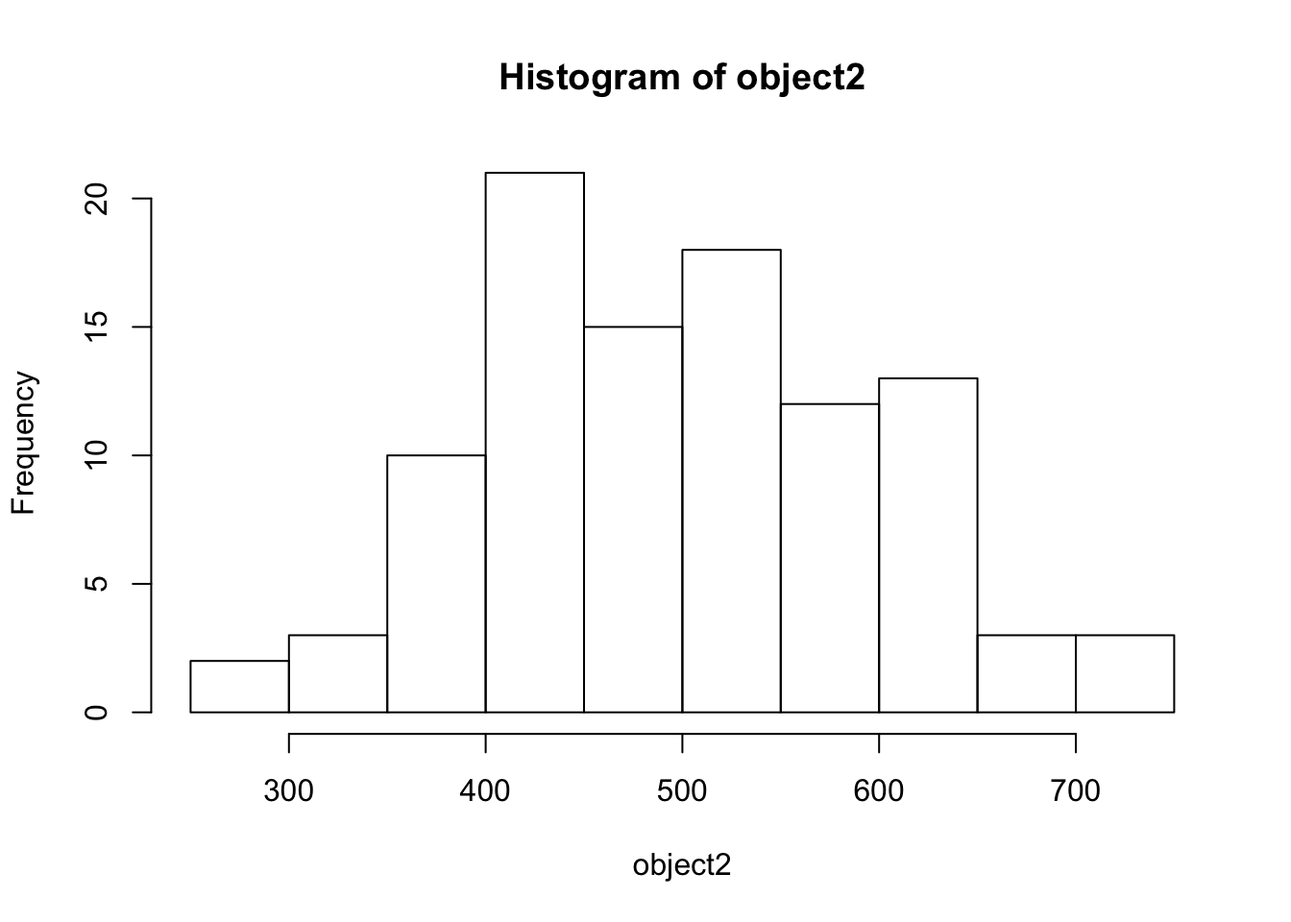
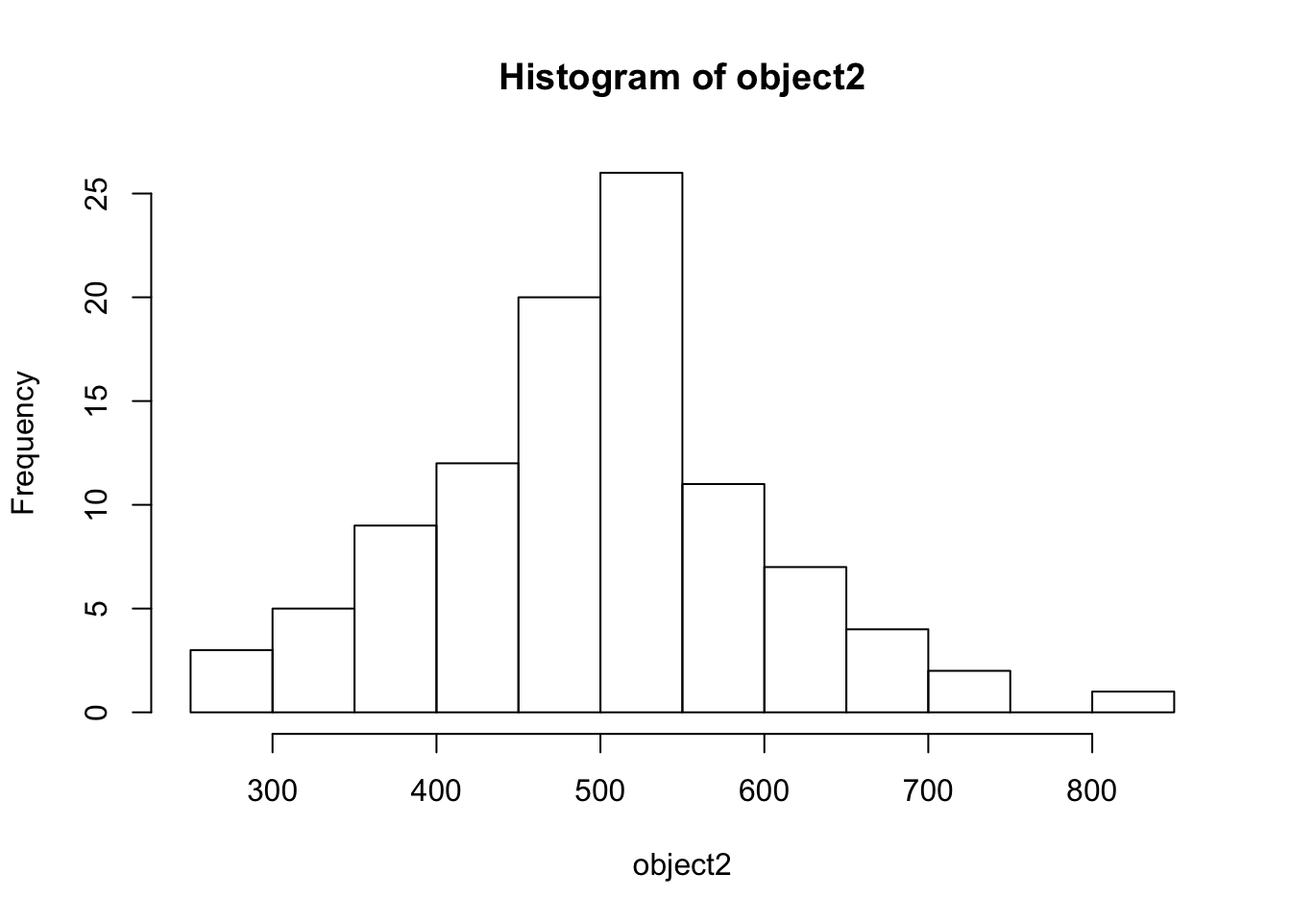
Clarify student set-up

diff --git a/_book/functions.html b/_book/functions.html
@@ -133,7 +133,9 @@ code span.wa { color: #60a0b0; font-weight: bold; font-style: italic; } /* Warni
 </ul></li>
 <li class="part"><span><b>I Core Lessons</b></span></li>
 <li class="chapter" data-level="1" data-path="Intro.html"><a href="Intro.html"><i class="fa fa-check"></i><b>1</b> Introduction to R and RStudio</a><ul>
-<li class="chapter" data-level="1.1" data-path="Intro.html"><a href="Intro.html#panes-in-rstudio"><i class="fa fa-check"></i><b>1.1</b> Panes in RStudio</a></li>
+<li class="chapter" data-level="1.1" data-path="Intro.html"><a href="Intro.html#panes-in-rstudio"><i class="fa fa-check"></i><b>1.1</b> Panes in RStudio</a><ul>
+<li class="chapter" data-level="1.1.1" data-path="Intro.html"><a href="Intro.html#rstudio-global-options"><i class="fa fa-check"></i><b>1.1.1</b> RStudio Global Options</a></li>
+</ul></li>
 </ul></li>
 <li class="chapter" data-level="2" data-path="set-up-an-r-project.html"><a href="set-up-an-r-project.html"><i class="fa fa-check"></i><b>2</b> Set up an R Project</a><ul>
 <li class="chapter" data-level="2.1" data-path="set-up-an-r-project.html"><a href="set-up-an-r-project.html#download-learning-materials"><i class="fa fa-check"></i><b>2.1</b> Download learning materials</a></li>
@@ -271,24 +273,24 @@ code span.wa { color: #60a0b0; font-weight: bold; font-style: italic; } /* Warni
 <p><code>rnorm()</code> generates random values from the normal distribution. We must supply the n argument since there is no default value, but there is a default value set for the mean and sd arguments.</p>
 <p>First we’ll allow the default mean and sd.</p>
 <pre class="sourceCode r"><code class="sourceCode r"><span class="kw">rnorm</span>(<span class="dt">n =</span> <span class="dv">10</span>)</code></pre>
-<pre><code>##  [1]  1.80689156 -1.20878810  0.94525065 -0.74679769  1.34808356
-##  [6] -0.04047414  1.00950892 -0.75103183 -1.31796644 -0.78259183</code></pre>
+<pre><code>##  [1] -1.1019347  1.5083651  0.6026967  1.7705683  0.2636808  1.3759632
+##  [7] -0.1818788  0.5114971  1.1734069 -0.8424678</code></pre>
 <p>The above code drew 10 random draws from a normal distribution with a mean = 0 and an sd = 1</p>
 <p>Now let’s set the n = 10, mean = 50, and the sd = 5 to see 10 random draws from a normal distribution with a mean = 50 and an sd = 5</p>
 <pre class="sourceCode r"><code class="sourceCode r"><span class="kw">rnorm</span>(<span class="dt">n =</span> <span class="dv">10</span>, <span class="dt">mean =</span> <span class="dv">50</span>, <span class="dt">sd =</span> <span class="dv">5</span>)</code></pre>
-<pre><code>##  [1] 47.50608 51.95545 42.24186 49.26525 52.18597 50.21288 51.56403
-##  [8] 42.36591 46.22878 44.76348</code></pre>
+<pre><code>##  [1] 47.75620 46.93819 43.06416 55.88560 51.46370 50.28837 42.25489
+##  [8] 56.33263 39.44121 44.13649</code></pre>
 <p>What happens if we do not specify n? Uncomment the code below (remove the #) to see what happens</p>
 <pre class="sourceCode r"><code class="sourceCode r"><span class="co"># rnorm(mean = 50, sd = 5)</span></code></pre>
 <p>In the above examples, we have labeled our arguments according to their names in the help menu. If you do not label the arguments, they will be called into the function in the order given in the help menu.</p>
 <pre class="sourceCode r"><code class="sourceCode r"><span class="co"># must be in order given by help menu to work as intended</span>
 <span class="kw">rnorm</span>(<span class="dv">10</span>, <span class="dv">50</span>, <span class="dv">5</span>)</code></pre>
-<pre><code>##  [1] 54.03380 54.80480 44.92825 45.01574 57.53483 43.54141 43.56855
-##  [8] 55.25117 59.37521 49.18938</code></pre>
+<pre><code>##  [1] 60.71525 45.59140 49.21225 59.00654 50.72007 50.34766 48.86142
+##  [8] 46.96959 55.32773 52.55015</code></pre>
 <pre class="sourceCode r"><code class="sourceCode r"><span class="co">#out of order, but works bc the arguments are labeled</span>
 <span class="kw">rnorm</span>(<span class="dt">n =</span> <span class="dv">10</span>, <span class="dt">sd =</span> <span class="dv">5</span>, <span class="dt">mean =</span> <span class="dv">50</span>)</code></pre>
-<pre><code>##  [1] 49.08662 52.42901 53.08194 54.80348 52.25205 59.18944 53.33668
-##  [8] 53.66822 43.55938 45.83531</code></pre>
+<pre><code>##  [1] 38.95088 49.96575 48.85896 48.17499 50.70473 51.35249 45.74921
+##  [8] 57.33058 52.85509 44.97675</code></pre>
 <p>To improve readability (and accuracy) of your code, we would recommend labeling your arguments.</p>
 <div id="exercise-1.2" class="section level2">
 <h2><span class="header-section-number">4.1</span> EXERCISE 1.2</h2>
@@ -297,21 +299,21 @@ code span.wa { color: #60a0b0; font-weight: bold; font-style: italic; } /* Warni
 <p><summary>SHOW ANSWER A</summary></p>
 <pre class="sourceCode r"><code class="sourceCode r">object2 &lt;-<span class="st"> </span><span class="kw">rnorm</span>(<span class="dt">n =</span> <span class="dv">100</span>, <span class="dt">mean =</span> <span class="dv">500</span>, <span class="dt">sd =</span> <span class="dv">100</span>)
 object2</code></pre>
-<pre><code>##   [1] 721.0569 548.7102 645.9001 425.5964 313.4397 566.9807 335.4301
-##   [8] 616.4563 539.7760 362.7848 532.2488 536.8846 460.0913 363.3268
-##  [15] 617.8032 459.0271 646.8791 519.0970 522.3046 260.9575 363.9171
-##  [22] 404.7395 363.6006 599.5324 357.6666 410.8979 546.2907 425.5127
-##  [29] 447.5486 454.1409 606.0926 444.8256 688.3315 593.7913 625.4745
-##  [36] 500.3224 515.4030 638.7853 569.7683 568.5378 555.5969 483.0836
-##  [43] 358.4098 621.1804 713.0971 453.1833 437.9464 552.3270 444.9826
-##  [50] 427.7332 477.0173 426.2059 609.9976 624.8568 526.6667 592.8202
-##  [57] 420.1135 429.6814 643.5315 490.8097 416.3517 620.1149 542.3416
-##  [64] 427.4146 400.5146 449.7942 461.7313 398.5520 538.6983 626.4527
-##  [71] 668.3099 525.8779 480.8667 483.4736 400.6631 592.6091 516.0319
-##  [78] 534.8286 299.4559 722.2990 350.9921 452.2466 400.2432 575.4550
-##  [85] 487.3226 568.8619 539.1984 331.5878 454.1787 440.6755 407.8297
-##  [92] 576.5782 351.1078 511.9216 373.9004 663.3439 544.2005 451.4592
-##  [99] 453.9976 420.1968</code></pre>
+<pre><code>##   [1] 487.3341 436.7753 496.1692 480.4509 591.2594 471.9330 507.5948
+##   [8] 690.5212 802.2308 544.3424 325.0499 429.2252 567.6059 521.5494
+##  [15] 458.7580 675.7245 422.9647 499.0978 604.2449 378.3480 527.7698
+##  [22] 497.1339 368.9970 549.7994 620.8479 483.4928 419.0279 466.1216
+##  [29] 300.7496 716.7238 340.6473 698.3077 544.5966 369.7362 377.2570
+##  [36] 305.0857 521.4332 521.6384 541.4597 518.2610 451.8223 438.4004
+##  [43] 512.9385 507.0714 341.7462 572.1063 554.2602 377.4713 572.6407
+##  [50] 404.8291 490.1442 584.3377 434.4625 519.9813 298.7604 505.3211
+##  [57] 423.3304 373.1699 387.0004 540.8580 506.8235 445.3193 498.5322
+##  [64] 661.7971 563.6378 466.8516 511.8822 512.7481 716.2833 436.4540
+##  [71] 483.0014 512.3631 497.8698 640.3359 289.6629 259.1567 394.0671
+##  [78] 521.8603 452.9092 542.5643 462.6475 576.5411 516.6631 636.9124
+##  [85] 557.0978 581.5022 643.4351 525.9568 613.8003 530.3129 351.4208
+##  [92] 448.1110 584.5196 525.1886 491.9120 498.8125 625.4592 400.5805
+##  [99] 470.6656 540.5932</code></pre>
 </details>
 <p>B. Call <code>hist(object2)</code> to create a histogram of your normal distribution</p>
 <details>

diff --git a/_book/r-as-a-calculator.html b/_book/r-as-a-calculator.html
@@ -133,7 +133,9 @@ code span.wa { color: #60a0b0; font-weight: bold; font-style: italic; } /* Warni
 </ul></li>
 <li class="part"><span><b>I Core Lessons</b></span></li>
 <li class="chapter" data-level="1" data-path="Intro.html"><a href="Intro.html"><i class="fa fa-check"></i><b>1</b> Introduction to R and RStudio</a><ul>
-<li class="chapter" data-level="1.1" data-path="Intro.html"><a href="Intro.html#panes-in-rstudio"><i class="fa fa-check"></i><b>1.1</b> Panes in RStudio</a></li>
+<li class="chapter" data-level="1.1" data-path="Intro.html"><a href="Intro.html#panes-in-rstudio"><i class="fa fa-check"></i><b>1.1</b> Panes in RStudio</a><ul>
+<li class="chapter" data-level="1.1.1" data-path="Intro.html"><a href="Intro.html#rstudio-global-options"><i class="fa fa-check"></i><b>1.1.1</b> RStudio Global Options</a></li>
+</ul></li>
 </ul></li>
 <li class="chapter" data-level="2" data-path="set-up-an-r-project.html"><a href="set-up-an-r-project.html"><i class="fa fa-check"></i><b>2</b> Set up an R Project</a><ul>
 <li class="chapter" data-level="2.1" data-path="set-up-an-r-project.html"><a href="set-up-an-r-project.html#download-learning-materials"><i class="fa fa-check"></i><b>2.1</b> Download learning materials</a></li>
@@ -257,7 +259,8 @@ code span.wa { color: #60a0b0; font-weight: bold; font-style: italic; } /* Warni
             <section class="normal" id="section-">
 <div id="r-as-a-calculator" class="section level1">
 <h1><span class="header-section-number">Chapter 3</span> R as a calculator</h1>
-<p>R can be used as a calculator. Make sure you’re typing into into the editor, not the console. Use the run button in the top right of the script to run the code.</p>
+<p>R can be used as a calculator. Make sure you’re typing into into the editor. Do not code in the console because this work will not be saved.</p>
+<p>Use the Run button on the top of the script pane to run the code.</p>
 <pre class="sourceCode r"><code class="sourceCode r"><span class="dv">2</span> <span class="op">+</span><span class="st"> </span><span class="dv">2</span></code></pre>
 <pre><code>## [1] 4</code></pre>
 <p>Notice the output in the console that tells us the code we wrote and the answer. Let’s try some others.</p>
@@ -265,7 +268,7 @@ code span.wa { color: #60a0b0; font-weight: bold; font-style: italic; } /* Warni
 <pre><code>## [1] 20</code></pre>
 <pre class="sourceCode r"><code class="sourceCode r"><span class="dv">2</span> <span class="op">^</span><span class="dv">3</span></code></pre>
 <pre><code>## [1] 8</code></pre>
-<p>Instead of using the Run button to run code, let’s try the keyboard shortcut to run code. To send code from the editor to the console, use <code>CMD</code>+<code>Enter</code> (Mac) or <code>Ctrl</code>+<code>Enter</code> (Windows). This is <strong>way</strong> faster than using your mouse to hit the Run button each time.</p>
+<p>Instead of using the Run button to run code, let’s try the keyboard shortcut to run code. To send code from the editor to the console, place your cursor on a line of code and use <code>CMD</code>+<code>Enter</code> (Mac) or <code>Ctrl</code>+<code>Enter</code> (Windows). This is <strong>way</strong> faster than using your mouse to hit the Run button each time.</p>
 <p>Go back to your code above and run them using the keyboard. We can also run multiple lines of code at once. Now highlight 2 lines of code and run them together.</p>
 <p>R also knows order of operations and scientific notation.</p>
 <pre class="sourceCode r"><code class="sourceCode r">(<span class="dv">5</span> <span class="op">+</span><span class="st"> </span><span class="dv">3</span>)<span class="op">^</span><span class="dv">2</span></code></pre>
@@ -277,7 +280,7 @@ code span.wa { color: #60a0b0; font-weight: bold; font-style: italic; } /* Warni
 <div id="comments" class="section level2">
 <h2><span class="header-section-number">3.1</span> Comments</h2>
 <p>Anything after a <code>#</code> sign is a comment, meaning it will not be executed as code. Use them liberally to <em>comment about what you are doing and why</em>.</p>
-<p>Today, you can take notes about what you are learning as comments in your script.</p>
+<p>Today, you can take notes about what you are learning as comments.</p>
 <p>Comments are a big part of making your work reproducible for others and for your future self when you open this script a few months from now and need to remember what you were doing.</p>
 <p>Commenting is also helpful when you’re testing things out during your analysis so that you can ‘turn off’ parts of your script.</p>
 <pre class="sourceCode r"><code class="sourceCode r"><span class="co"># Here is a comment</span>

diff --git a/_book/intro.html b/_book/intro.html
@@ -133,7 +133,9 @@ code span.wa { color: #60a0b0; font-weight: bold; font-style: italic; } /* Warni
 </ul></li>
 <li class="part"><span><b>I Core Lessons</b></span></li>
 <li class="chapter" data-level="1" data-path="Intro.html"><a href="Intro.html"><i class="fa fa-check"></i><b>1</b> Introduction to R and RStudio</a><ul>
-<li class="chapter" data-level="1.1" data-path="Intro.html"><a href="Intro.html#panes-in-rstudio"><i class="fa fa-check"></i><b>1.1</b> Panes in RStudio</a></li>
+<li class="chapter" data-level="1.1" data-path="Intro.html"><a href="Intro.html#panes-in-rstudio"><i class="fa fa-check"></i><b>1.1</b> Panes in RStudio</a><ul>
+<li class="chapter" data-level="1.1.1" data-path="Intro.html"><a href="Intro.html#rstudio-global-options"><i class="fa fa-check"></i><b>1.1.1</b> RStudio Global Options</a></li>
+</ul></li>
 </ul></li>
 <li class="chapter" data-level="2" data-path="set-up-an-r-project.html"><a href="set-up-an-r-project.html"><i class="fa fa-check"></i><b>2</b> Set up an R Project</a><ul>
 <li class="chapter" data-level="2.1" data-path="set-up-an-r-project.html"><a href="set-up-an-r-project.html#download-learning-materials"><i class="fa fa-check"></i><b>2.1</b> Download learning materials</a></li>
@@ -291,8 +293,14 @@ code span.wa { color: #60a0b0; font-weight: bold; font-style: italic; } /* Warni
 <li>Viewer for viewing other kinds of output, like web content.</li>
 </ul></li>
 </ul>
-<p>To change your preferences for the pane layout go to Tools –&gt; Global Options –&gt; Pane Layout. The Global Options menu is also where you can change the font size, background color, and other useful preferences.</p>
-<p>There is one preference that we recommend you change right now. That is the <em>soft wrap</em> feature that will wrap long lines of code or comments onto several lines so that you do not need to scroll right to see the whole code or sentence. Go to Tools –&gt; Global Options –&gt; Code and click the box next to <em>Soft Wrap R Source files</em></p>
+<div id="rstudio-global-options" class="section level3">
+<h3><span class="header-section-number">1.1.1</span> RStudio Global Options</h3>
+<ul>
+<li>There is one set-up preference that I think everyone will prefer. Go to Tools –&gt; Global Options</li>
+</ul>
+<p><img src="images/softwrap_code.png" alt="In the Code menu check the box for “Soft-wrap R source files”" />{width = 400px}
+This wraps long lines of code on to the next line automatically so that you do not have to scroll left and right to see a long line of code.</p>
+</div>
 </div>
 </div>
 <div class="footnotes">

diff --git a/_book/set-up-an-r-project.html b/_book/set-up-an-r-project.html
@@ -133,7 +133,9 @@ code span.wa { color: #60a0b0; font-weight: bold; font-style: italic; } /* Warni
 </ul></li>
 <li class="part"><span><b>I Core Lessons</b></span></li>
 <li class="chapter" data-level="1" data-path="Intro.html"><a href="Intro.html"><i class="fa fa-check"></i><b>1</b> Introduction to R and RStudio</a><ul>
-<li class="chapter" data-level="1.1" data-path="Intro.html"><a href="Intro.html#panes-in-rstudio"><i class="fa fa-check"></i><b>1.1</b> Panes in RStudio</a></li>
+<li class="chapter" data-level="1.1" data-path="Intro.html"><a href="Intro.html#panes-in-rstudio"><i class="fa fa-check"></i><b>1.1</b> Panes in RStudio</a><ul>
+<li class="chapter" data-level="1.1.1" data-path="Intro.html"><a href="Intro.html#rstudio-global-options"><i class="fa fa-check"></i><b>1.1.1</b> RStudio Global Options</a></li>
+</ul></li>
 </ul></li>
 <li class="chapter" data-level="2" data-path="set-up-an-r-project.html"><a href="set-up-an-r-project.html"><i class="fa fa-check"></i><b>2</b> Set up an R Project</a><ul>
 <li class="chapter" data-level="2.1" data-path="set-up-an-r-project.html"><a href="set-up-an-r-project.html#download-learning-materials"><i class="fa fa-check"></i><b>2.1</b> Download learning materials</a></li>
@@ -275,8 +277,7 @@ code span.wa { color: #60a0b0; font-weight: bold; font-style: italic; } /* Warni
 <img src="images/filestructure.png" alt="File structure" width="450" />
 <p class="caption">File structure</p>
 </div>
-<p>Now that we have a project directory and the dataset inside that project directory, let’s open up a new script and begin coding! Go to File –&gt; New –&gt; New R Script</p>
-<p>Code that you type into the console is code that R executes. From here forward we will use the editor window to write a script that we can save to a file and run it again whenever we want to. We usually give it a <code>.R</code> extension, but it’s just a plain text file so it can be opened by any text editor program.</p>
+<p>Now that we have a project directory and the dataset inside that project directory, make a new R script by going to File –&gt; New File –&gt; R Script. Now you too have the 4 pane layout.</p>
 </div>
 </div>
             </section>

diff --git a/_book/accessing-variables.html b/_book/accessing-variables.html
@@ -133,7 +133,9 @@ code span.wa { color: #60a0b0; font-weight: bold; font-style: italic; } /* Warni
 </ul></li>
 <li class="part"><span><b>I Core Lessons</b></span></li>
 <li class="chapter" data-level="1" data-path="Intro.html"><a href="Intro.html"><i class="fa fa-check"></i><b>1</b> Introduction to R and RStudio</a><ul>
-<li class="chapter" data-level="1.1" data-path="Intro.html"><a href="Intro.html#panes-in-rstudio"><i class="fa fa-check"></i><b>1.1</b> Panes in RStudio</a></li>
+<li class="chapter" data-level="1.1" data-path="Intro.html"><a href="Intro.html#panes-in-rstudio"><i class="fa fa-check"></i><b>1.1</b> Panes in RStudio</a><ul>
+<li class="chapter" data-level="1.1.1" data-path="Intro.html"><a href="Intro.html#rstudio-global-options"><i class="fa fa-check"></i><b>1.1.1</b> RStudio Global Options</a></li>
+</ul></li>
 </ul></li>
 <li class="chapter" data-level="2" data-path="set-up-an-r-project.html"><a href="set-up-an-r-project.html"><i class="fa fa-check"></i><b>2</b> Set up an R Project</a><ul>
 <li class="chapter" data-level="2.1" data-path="set-up-an-r-project.html"><a href="set-up-an-r-project.html#download-learning-materials"><i class="fa fa-check"></i><b>2.1</b> Download learning materials</a></li>

diff --git a/_book/data-visualization-with-ggplot2.html b/_book/data-visualization-with-ggplot2.html
@@ -133,7 +133,9 @@ code span.wa { color: #60a0b0; font-weight: bold; font-style: italic; } /* Warni
 </ul></li>
 <li class="part"><span><b>I Core Lessons</b></span></li>
 <li class="chapter" data-level="1" data-path="Intro.html"><a href="Intro.html"><i class="fa fa-check"></i><b>1</b> Introduction to R and RStudio</a><ul>
-<li class="chapter" data-level="1.1" data-path="Intro.html"><a href="Intro.html#panes-in-rstudio"><i class="fa fa-check"></i><b>1.1</b> Panes in RStudio</a></li>
+<li class="chapter" data-level="1.1" data-path="Intro.html"><a href="Intro.html#panes-in-rstudio"><i class="fa fa-check"></i><b>1.1</b> Panes in RStudio</a><ul>
+<li class="chapter" data-level="1.1.1" data-path="Intro.html"><a href="Intro.html#rstudio-global-options"><i class="fa fa-check"></i><b>1.1.1</b> RStudio Global Options</a></li>
+</ul></li>
 </ul></li>
 <li class="chapter" data-level="2" data-path="set-up-an-r-project.html"><a href="set-up-an-r-project.html"><i class="fa fa-check"></i><b>2</b> Set up an R Project</a><ul>
 <li class="chapter" data-level="2.1" data-path="set-up-an-r-project.html"><a href="set-up-an-r-project.html#download-learning-materials"><i class="fa fa-check"></i><b>2.1</b> Download learning materials</a></li>

diff --git a/_book/dataframes.html b/_book/dataframes.html
@@ -133,7 +133,9 @@ code span.wa { color: #60a0b0; font-weight: bold; font-style: italic; } /* Warni
 </ul></li>
 <li class="part"><span><b>I Core Lessons</b></span></li>
 <li class="chapter" data-level="1" data-path="Intro.html"><a href="Intro.html"><i class="fa fa-check"></i><b>1</b> Introduction to R and RStudio</a><ul>
-<li class="chapter" data-level="1.1" data-path="Intro.html"><a href="Intro.html#panes-in-rstudio"><i class="fa fa-check"></i><b>1.1</b> Panes in RStudio</a></li>
+<li class="chapter" data-level="1.1" data-path="Intro.html"><a href="Intro.html#panes-in-rstudio"><i class="fa fa-check"></i><b>1.1</b> Panes in RStudio</a><ul>
+<li class="chapter" data-level="1.1.1" data-path="Intro.html"><a href="Intro.html#rstudio-global-options"><i class="fa fa-check"></i><b>1.1.1</b> RStudio Global Options</a></li>
+</ul></li>
 </ul></li>
 <li class="chapter" data-level="2" data-path="set-up-an-r-project.html"><a href="set-up-an-r-project.html"><i class="fa fa-check"></i><b>2</b> Set up an R Project</a><ul>
 <li class="chapter" data-level="2.1" data-path="set-up-an-r-project.html"><a href="set-up-an-r-project.html#download-learning-materials"><i class="fa fa-check"></i><b>2.1</b> Download learning materials</a></li>

diff --git a/_book/index.html b/_book/index.html
@@ -133,7 +133,9 @@ code span.wa { color: #60a0b0; font-weight: bold; font-style: italic; } /* Warni
 </ul></li>
 <li class="part"><span><b>I Core Lessons</b></span></li>
 <li class="chapter" data-level="1" data-path="Intro.html"><a href="Intro.html"><i class="fa fa-check"></i><b>1</b> Introduction to R and RStudio</a><ul>
-<li class="chapter" data-level="1.1" data-path="Intro.html"><a href="Intro.html#panes-in-rstudio"><i class="fa fa-check"></i><b>1.1</b> Panes in RStudio</a></li>
+<li class="chapter" data-level="1.1" data-path="Intro.html"><a href="Intro.html#panes-in-rstudio"><i class="fa fa-check"></i><b>1.1</b> Panes in RStudio</a><ul>
+<li class="chapter" data-level="1.1.1" data-path="Intro.html"><a href="Intro.html#rstudio-global-options"><i class="fa fa-check"></i><b>1.1.1</b> RStudio Global Options</a></li>
+</ul></li>
 </ul></li>
 <li class="chapter" data-level="2" data-path="set-up-an-r-project.html"><a href="set-up-an-r-project.html"><i class="fa fa-check"></i><b>2</b> Set up an R Project</a><ul>
 <li class="chapter" data-level="2.1" data-path="set-up-an-r-project.html"><a href="set-up-an-r-project.html#download-learning-materials"><i class="fa fa-check"></i><b>2.1</b> Download learning materials</a></li>

diff --git a/_book/inspecting-dataframes.html b/_book/inspecting-dataframes.html
@@ -133,7 +133,9 @@ code span.wa { color: #60a0b0; font-weight: bold; font-style: italic; } /* Warni
 </ul></li>
 <li class="part"><span><b>I Core Lessons</b></span></li>
 <li class="chapter" data-level="1" data-path="Intro.html"><a href="Intro.html"><i class="fa fa-check"></i><b>1</b> Introduction to R and RStudio</a><ul>
-<li class="chapter" data-level="1.1" data-path="Intro.html"><a href="Intro.html#panes-in-rstudio"><i class="fa fa-check"></i><b>1.1</b> Panes in RStudio</a></li>
+<li class="chapter" data-level="1.1" data-path="Intro.html"><a href="Intro.html#panes-in-rstudio"><i class="fa fa-check"></i><b>1.1</b> Panes in RStudio</a><ul>
+<li class="chapter" data-level="1.1.1" data-path="Intro.html"><a href="Intro.html#rstudio-global-options"><i class="fa fa-check"></i><b>1.1.1</b> RStudio Global Options</a></li>
+</ul></li>
 </ul></li>
 <li class="chapter" data-level="2" data-path="set-up-an-r-project.html"><a href="set-up-an-r-project.html"><i class="fa fa-check"></i><b>2</b> Set up an R Project</a><ul>
 <li class="chapter" data-level="2.1" data-path="set-up-an-r-project.html"><a href="set-up-an-r-project.html#download-learning-materials"><i class="fa fa-check"></i><b>2.1</b> Download learning materials</a></li>

diff --git a/_book/manipulating-data.html b/_book/manipulating-data.html
@@ -133,7 +133,9 @@ code span.wa { color: #60a0b0; font-weight: bold; font-style: italic; } /* Warni
 </ul></li>
 <li class="part"><span><b>I Core Lessons</b></span></li>
 <li class="chapter" data-level="1" data-path="Intro.html"><a href="Intro.html"><i class="fa fa-check"></i><b>1</b> Introduction to R and RStudio</a><ul>
-<li class="chapter" data-level="1.1" data-path="Intro.html"><a href="Intro.html#panes-in-rstudio"><i class="fa fa-check"></i><b>1.1</b> Panes in RStudio</a></li>
+<li class="chapter" data-level="1.1" data-path="Intro.html"><a href="Intro.html#panes-in-rstudio"><i class="fa fa-check"></i><b>1.1</b> Panes in RStudio</a><ul>
+<li class="chapter" data-level="1.1.1" data-path="Intro.html"><a href="Intro.html#rstudio-global-options"><i class="fa fa-check"></i><b>1.1.1</b> RStudio Global Options</a></li>
+</ul></li>
 </ul></li>
 <li class="chapter" data-level="2" data-path="set-up-an-r-project.html"><a href="set-up-an-r-project.html"><i class="fa fa-check"></i><b>2</b> Set up an R Project</a><ul>
 <li class="chapter" data-level="2.1" data-path="set-up-an-r-project.html"><a href="set-up-an-r-project.html#download-learning-materials"><i class="fa fa-check"></i><b>2.1</b> Download learning materials</a></li>

diff --git a/_book/more-functions.html b/_book/more-functions.html
@@ -133,7 +133,9 @@ code span.wa { color: #60a0b0; font-weight: bold; font-style: italic; } /* Warni
 </ul></li>
 <li class="part"><span><b>I Core Lessons</b></span></li>
 <li class="chapter" data-level="1" data-path="Intro.html"><a href="Intro.html"><i class="fa fa-check"></i><b>1</b> Introduction to R and RStudio</a><ul>
-<li class="chapter" data-level="1.1" data-path="Intro.html"><a href="Intro.html#panes-in-rstudio"><i class="fa fa-check"></i><b>1.1</b> Panes in RStudio</a></li>
+<li class="chapter" data-level="1.1" data-path="Intro.html"><a href="Intro.html#panes-in-rstudio"><i class="fa fa-check"></i><b>1.1</b> Panes in RStudio</a><ul>
+<li class="chapter" data-level="1.1.1" data-path="Intro.html"><a href="Intro.html#rstudio-global-options"><i class="fa fa-check"></i><b>1.1.1</b> RStudio Global Options</a></li>
+</ul></li>
 </ul></li>
 <li class="chapter" data-level="2" data-path="set-up-an-r-project.html"><a href="set-up-an-r-project.html"><i class="fa fa-check"></i><b>2</b> Set up an R Project</a><ul>
 <li class="chapter" data-level="2.1" data-path="set-up-an-r-project.html"><a href="set-up-an-r-project.html#download-learning-materials"><i class="fa fa-check"></i><b>2.1</b> Download learning materials</a></li>

diff --git a/_book/plots-in-base-r.html b/_book/plots-in-base-r.html
@@ -133,7 +133,9 @@ code span.wa { color: #60a0b0; font-weight: bold; font-style: italic; } /* Warni
 </ul></li>
 <li class="part"><span><b>I Core Lessons</b></span></li>
 <li class="chapter" data-level="1" data-path="Intro.html"><a href="Intro.html"><i class="fa fa-check"></i><b>1</b> Introduction to R and RStudio</a><ul>
-<li class="chapter" data-level="1.1" data-path="Intro.html"><a href="Intro.html#panes-in-rstudio"><i class="fa fa-check"></i><b>1.1</b> Panes in RStudio</a></li>
+<li class="chapter" data-level="1.1" data-path="Intro.html"><a href="Intro.html#panes-in-rstudio"><i class="fa fa-check"></i><b>1.1</b> Panes in RStudio</a><ul>
+<li class="chapter" data-level="1.1.1" data-path="Intro.html"><a href="Intro.html#rstudio-global-options"><i class="fa fa-check"></i><b>1.1.1</b> RStudio Global Options</a></li>
+</ul></li>
 </ul></li>
 <li class="chapter" data-level="2" data-path="set-up-an-r-project.html"><a href="set-up-an-r-project.html"><i class="fa fa-check"></i><b>2</b> Set up an R Project</a><ul>
 <li class="chapter" data-level="2.1" data-path="set-up-an-r-project.html"><a href="set-up-an-r-project.html#download-learning-materials"><i class="fa fa-check"></i><b>2.1</b> Download learning materials</a></li>
